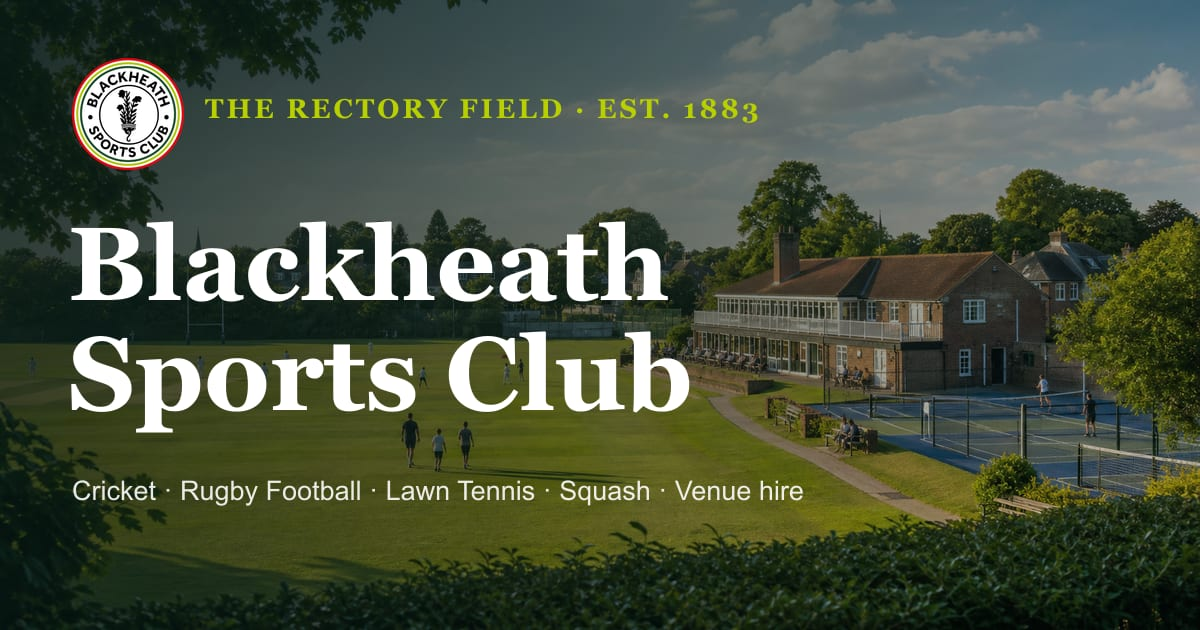
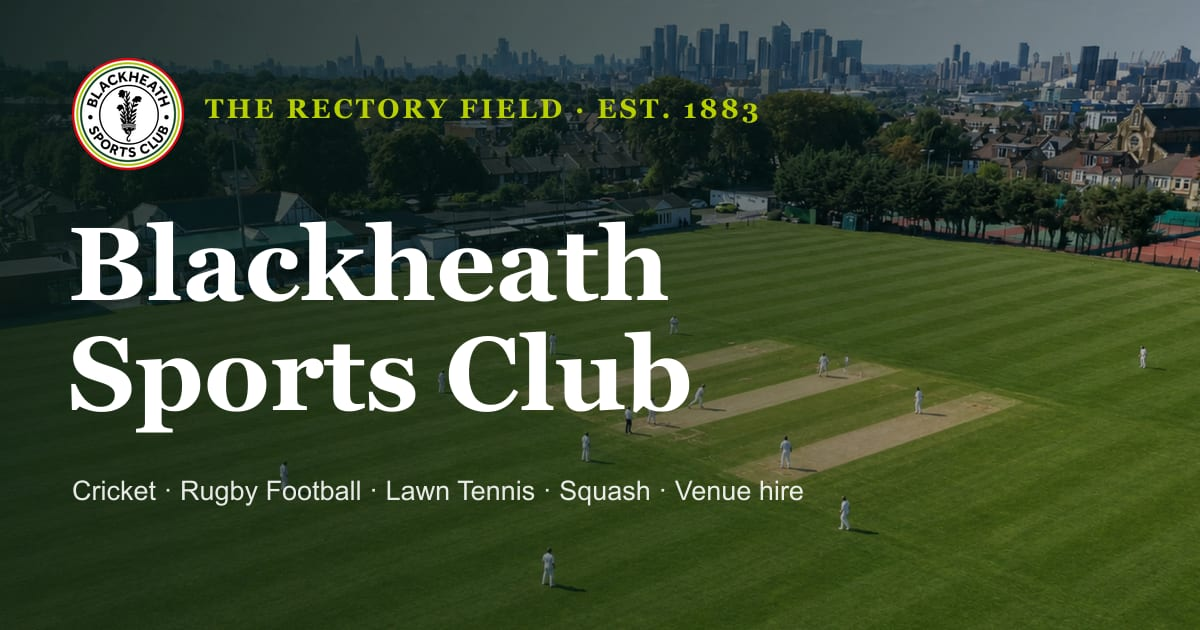
Add rotating Rectory Field hero gallery (#32)
Replace the generated hero with four responsive Rectory Field photographs, accessible rotation controls, refreshed social imagery, and updated handover documentation.

diff --git a/src/main.jsx b/src/main.jsx
@@ -32,9 +32,11 @@ import {
   Menu,
   MessageCircle,
   Navigation,
+  Pause,
   PartyPopper,
   PawPrint,
   Phone,
+  Play,
   Send,
   Sparkles,
   TriangleAlert,
@@ -79,10 +81,22 @@ import {
 } from "./data.js";
 import { loadCloudflareAnalytics, trackEvent, trackOutbound } from "./analytics.js";
 
-import hero640 from "./assets/rectory-field-640.webp";
-import hero1024 from "./assets/rectory-field-1024.webp";
-import hero1440 from "./assets/rectory-field-1440.webp";
-import hero1920 from "./assets/rectory-field-1920.webp";
+import cricket640 from "./assets/hero-cricket-640.webp";
+import cricket1024 from "./assets/hero-cricket-1024.webp";
+import cricket1440 from "./assets/hero-cricket-1440.webp";
+import cricket1920 from "./assets/hero-cricket-1920.webp";
+import multiSport640 from "./assets/hero-one-club-many-sports-640.webp";
+import multiSport1024 from "./assets/hero-one-club-many-sports-1024.webp";
+import multiSport1440 from "./assets/hero-one-club-many-sports-1440.webp";
+import multiSport1920 from "./assets/hero-one-club-many-sports-1920.webp";
+import summer640 from "./assets/hero-clubhouse-summer-640.webp";
+import summer1024 from "./assets/hero-clubhouse-summer-1024.webp";
+import summer1440 from "./assets/hero-clubhouse-summer-1440.webp";
+import summer1920 from "./assets/hero-clubhouse-summer-1920.webp";
+import goldenHour640 from "./assets/hero-clubhouse-golden-hour-640.webp";
+import goldenHour1024 from "./assets/hero-clubhouse-golden-hour-1024.webp";
+import goldenHour1440 from "./assets/hero-clubhouse-golden-hour-1440.webp";
+import goldenHour1920 from "./assets/hero-clubhouse-golden-hour-1920.webp";
 import { heroBlur } from "./assets/hero-blur.js";
 import clubCrest from "./assets/brand/bsc-crest.svg";
 import heatherMotif from "./assets/brand/bsc-heather.svg";
@@ -103,6 +117,28 @@ const lucide = { Dumbbell, Baby, Beer, PartyPopper, Utensils, Accessibility, Car
 
 const easeOut = [0.22, 1, 0.36, 1];
 const fallbackOpeningHours = toPublicOpeningHours(cloneDefaultSeasonalHours());
+const heroSlides = [
+  {
+    src: cricket1440,
+    srcSet: `${cricket640} 640w, ${cricket1024} 1024w, ${cricket1440} 1440w, ${cricket1920} 1920w`,
+    alt: "Cricket being played at the Rectory Field, home of Blackheath Sports Club",
+  },
+  {
+    src: multiSport1440,
+    srcSet: `${multiSport640} 640w, ${multiSport1024} 1024w, ${multiSport1440} 1440w, ${multiSport1920} 1920w`,
+    alt: "Cricket and lawn tennis being played across the Rectory Field",
+  },
+  {
+    src: summer1440,
+    srcSet: `${summer640} 640w, ${summer1024} 1024w, ${summer1440} 1440w, ${summer1920} 1920w`,
+    alt: "The clubhouse and cricket ground at the Rectory Field on a summer day",
+  },
+  {
+    src: goldenHour1440,
+    srcSet: `${goldenHour640} 640w, ${goldenHour1024} 1024w, ${goldenHour1440} 1440w, ${goldenHour1920} 1920w`,
+    alt: "The clubhouse terrace and Rectory Field at golden hour",
+  },
+];
 
 function updateStructuredOpeningHours(days) {
   const script = document.querySelector('script[type="application/ld+json"]');
@@ -180,35 +216,81 @@ function Reveal({ as = "section", className, children, ...rest }) {
 
 function Hero() {
   const reduceMotion = useReducedMotion();
-  const [loaded, setLoaded] = useState(false);
-  const imgRef = useRef(null);
+  const [activeSlide, setActiveSlide] = useState(0);
+  const [paused, setPaused] = useState(false);
+  const [loadedSlides, setLoadedSlides] = useState(() => new Set());
   const { scrollY } = useScroll();
   const rawY = useTransform(scrollY, [0, 700], [0, 120]);
   const parallaxY = reduceMotion ? 0 : rawY;
 
   useEffect(() => {
-    // If the image is served from cache, onLoad may fire before hydration.
-    if (imgRef.current?.complete) setLoaded(true);
-  }, []);
+    if (paused || reduceMotion) return undefined;
+    const timer = window.setInterval(
+      () => setActiveSlide((current) => (current + 1) % heroSlides.length),
+      7000,
+    );
+    return () => window.clearInterval(timer);
+  }, [paused, reduceMotion]);
+
+  const markLoaded = (index) => {
+    setLoadedSlides((current) => {
+      if (current.has(index)) return current;
+      return new Set(current).add(index);
+    });
+  };
 
   return (
     <section className="hero" aria-label={`${club.name} at ${club.address.line1}`}>
-      <m.div className="hero-media" style={{ y: parallaxY }}>
-        <img
-          ref={imgRef}
-          className={loaded ? "hero-img is-loaded" : "hero-img"}
-          style={{ backgroundImage: `url(${heroBlur})` }}
-          src={hero1440}
-          srcSet={`${hero640} 640w, ${hero1024} 1024w, ${hero1440} 1440w, ${hero1920} 1920w`}
-          sizes="100vw"
-          width={1672}
-          height={941}
-          alt="The Rectory Field, home of Blackheath Sports Club"
-          fetchPriority="high"
-          onLoad={() => setLoaded(true)}
-        />
+      <m.div
+        className="hero-media"
+        style={{ y: parallaxY, backgroundImage: `url(${heroBlur})` }}
+        role="group"
+        aria-roledescription="carousel"
+        aria-label="Rectory Field highlights"
+      >
+        {heroSlides.map((slide, index) => (
+          <img
+            key={slide.alt}
+            className={`hero-img${loadedSlides.has(index) ? " is-loaded" : ""}${activeSlide === index ? " is-active" : ""}`}
+            src={slide.src}
+            srcSet={slide.srcSet}
+            sizes="100vw"
+            width={2400}
+            height={960}
+            alt={activeSlide === index ? slide.alt : ""}
+            aria-hidden={activeSlide !== index}
+            fetchPriority={index === 0 ? "high" : "auto"}
+            loading={index === 0 ? "eager" : "lazy"}
+            onLoad={() => markLoaded(index)}
+          />
+        ))}
       </m.div>
       <div className="hero-scrim" aria-hidden="true" />
+
+      <div className="hero-carousel-controls" aria-label="Hero image controls">
+        <div className="hero-carousel-dots">
+          {heroSlides.map((slide, index) => (
+            <button
+              key={slide.alt}
+              type="button"
+              className={activeSlide === index ? "is-active" : ""}
+              aria-label={`Show hero image ${index + 1} of ${heroSlides.length}`}
+              aria-current={activeSlide === index ? "true" : undefined}
+              onClick={() => setActiveSlide(index)}
+            />
+          ))}
+        </div>
+        {!reduceMotion && (
+          <button
+            className="hero-carousel-toggle"
+            type="button"
+            aria-label={paused ? "Play hero image rotation" : "Pause hero image rotation"}
+            onClick={() => setPaused((current) => !current)}
+          >
+            {paused ? <Play size={15} /> : <Pause size={15} />}
+          </button>
+        )}
+      </div>
 
       <m.div className="hero-content" variants={staggerContainer} initial="hidden" animate="show">
         <m.div className="hero-brand-lockup" variants={staggerItem}>

diff --git a/src/styles.css b/src/styles.css
@@ -299,22 +299,82 @@ img {
   position: absolute;
   inset: -6% 0;
   will-change: transform;
+  background-size: cover;
+  background-position: center;
 }
 
 .hero-img {
+  position: absolute;
+  inset: 0;
   width: 100%;
   height: 100%;
   object-fit: cover;
-  background-size: cover;
-  background-position: center;
   opacity: 0;
-  transform: scale(1.08);
-  transition: opacity 0.9s var(--ease), transform 9s ease-out;
+  transform: scale(1.04);
+  transition: opacity 1.2s var(--ease), transform 9s ease-out;
 }
 
-.hero-img.is-loaded {
+.hero-img.is-loaded.is-active {
   opacity: 1;
   transform: scale(1);
+}
+
+.hero-carousel-controls {
+  position: absolute;
+  z-index: 2;
+  top: 112px;
+  right: max(20px, calc((100vw - 1180px) / 2));
+  display: flex;
+  align-items: center;
+  gap: 8px;
+  padding: 7px 8px;
+  border: 1px solid rgba(255, 255, 255, 0.24);
+  border-radius: var(--r-pill);
+  background: rgba(7, 28, 18, 0.42);
+  backdrop-filter: blur(12px);
+}
+
+.hero-carousel-dots {
+  display: flex;
+  gap: 7px;
+}
+
+.hero-carousel-dots button,
+.hero-carousel-toggle {
+  border: 0;
+  color: white;
+  cursor: pointer;
+}
+
+.hero-carousel-dots button {
+  width: 9px;
+  height: 9px;
+  padding: 0;
+  border-radius: 50%;
+  background: rgba(255, 255, 255, 0.45);
+  transition: width 0.25s var(--ease), background 0.25s var(--ease);
+}
+
+.hero-carousel-dots button.is-active {
+  width: 24px;
+  border-radius: var(--r-pill);
+  background: var(--club-lime);
+}
+
+.hero-carousel-toggle {
+  display: grid;
+  width: 28px;
+  height: 28px;
+  place-items: center;
+  padding: 0;
+  border-radius: 50%;
+  background: rgba(255, 255, 255, 0.14);
+}
+
+.hero-carousel-dots button:hover,
+.hero-carousel-toggle:hover {
+  background: rgba(255, 255, 255, 0.8);
+  color: var(--forest);
 }
 
 .hero-scrim {
@@ -1987,6 +2047,11 @@ footer::before {
     min-height: 92svh;
   }
 
+  .hero-carousel-controls {
+    top: 92px;
+    right: 20px;
+  }
+
   .brand > span {
     display: none;
   }
@@ -2067,7 +2132,10 @@ footer::before {
   }
 
   .hero-img {
-    opacity: 1;
     transform: none;
+  }
+
+  .hero-img.is-loaded.is-active {
+    opacity: 1;
   }
 }

diff --git a/src/assets/hero-blur.js b/src/assets/hero-blur.js
@@ -1,2 +1,2 @@
 // Auto-generated by scripts/optimize-hero.mjs
[2 lines of base64/hex data omitted]

diff --git a/docs/site-spec.md b/docs/site-spec.md
@@ -8,7 +8,7 @@ This document is the working specification. It should evolve as the club supplie
 
 For implementation handover, see `docs/ai-handover.md`. For the ranked next-work roadmap, see `docs/backlog.md`.
 
-## As-built status (updated 2026-07-31)
+## As-built status (updated 2026-08-03)
 
 The repo is no longer a first-pass concept — it is a feature-rich single-page site grounded in the
 real club's facts (validated against the live blackheathsportsclub.co.uk). The sections below marked
@@ -19,7 +19,9 @@ Delivered so far:
 
 - Real, fact-grounded content across all sections (address, phone, bar hours, £50 social membership,
   no-dogs rule, 1883/1885/1937 heritage), structured in `src/data.js`.
-- Real club photography optimised to WebP; responsive hero with blur-up; custom per-sport SVG icons.
+- Real club photography optimised to WebP; the responsive homepage hero rotates between cricket,
+  a shared cricket-and-lawn-tennis view, the summer clubhouse and golden hour at Rectory Field,
+  with pause/play controls and a blur-up placeholder; custom per-sport SVG icons.
 - Homepage sports cards use 1600 x 1100 action images: authentic Blackheath Age Grade
   Rugby photography plus reviewable interim generated concepts for Cricket, Lawn Tennis
   and Squash. Provenance is recorded in `docs/media-sources.md`; approved Blackheath
@@ -66,7 +68,8 @@ Key assumptions in the concept:
 
 ### 1. Replace concept imagery with real club media
 
-The generated hero image gives the right composition, but production should use real photography and short video from Rectory Field.
+The homepage hero now uses real Rectory Field cricket photography. More approved photography and
+short video from the ground would deepen the site further.
 
 Needed assets:
 
@@ -523,7 +526,7 @@ Operational metrics:
 
 ## Immediate next actions
 
-1. Replace placeholder hero image with real club-approved photography.
+1. Collect additional real club-approved photography for sport, venue-hire and junior sections.
 2. Confirm sport-specific contacts and booking links.
 3. Collect membership categories, prices and eligibility.
 4. Collect venue hire details and photos.

diff --git a/README.md b/README.md
@@ -11,7 +11,9 @@ Live deployments:
 ## What this repo contains
 
 - A Vite and React static website.
-- A generated concept hero image at `src/assets/rectory-field-concept.png`.
+- A rotating set of real Rectory Field hero images (cricket, the shared multi-sport ground,
+  summer clubhouse and golden hour), with responsive WebP derivatives generated by
+  `npm run optimize:hero`.
 - A GitHub Pages workflow in `.github/workflows/deploy.yml`.
 - Cloudflare Pages deployment connected to `main`.
 - A review-led information architecture for the club's next public website.
@@ -70,7 +72,7 @@ npm run optimize:pwa-icons
 - Final club sign-off on contact/address/telephone details.
 - Current membership categories and prices.
 - Confirmed booking links for courts, clubhouse hire and sports sections.
-- Real photography and video of Rectory Field, clubhouse interiors, match days and juniors.
+- More real photography and video of Rectory Field, clubhouse interiors, match days and juniors.
 - Sponsor list, safeguarding information, accessibility guidance and privacy/legal pages.
 - Production domain connection; when that happens, update canonical/sitemap/OG URLs and retest PWA service-worker scope/installability.
 

diff --git a/docs/ai-handover.md b/docs/ai-handover.md
@@ -3,6 +3,16 @@
 This document lets any developer or AI pick the project up cold from another machine.
 Read this first, then `docs/design-review-2026-07-30.md` (full review + BL-A…BL-O backlog and sprint plan — the current source of truth for remaining work), then `docs/site-spec.md` (product spec) and `docs/backlog.md` (earlier ranked roadmap).
 
+## Latest update — 2026-08-03: rotating real Rectory Field hero
+
+The generated homepage concept image has been replaced by four approved wide photographs: cricket
+being played at Rectory Field, a shared cricket-and-lawn-tennis view, the clubhouse on a summer day
+and the clubhouse at golden hour. The hero rotates every seven seconds with direct slide controls
+and pause/play; visitors who prefer reduced motion see a static first image. Source PNG/JPEG files
+live at `src/assets/hero-*`;
+`npm run optimize:hero` regenerates each four-size responsive WebP set and the cricket blur
+placeholder, and `npm run optimize:og` refreshes the cricket-led social-sharing image.
+
 ## Latest release — 2026-07-31: seasonal opening-hours admin
 
 PR [#30](https://github.com/zarbjustin/blackheath-sports-club-redesign/pull/30)
